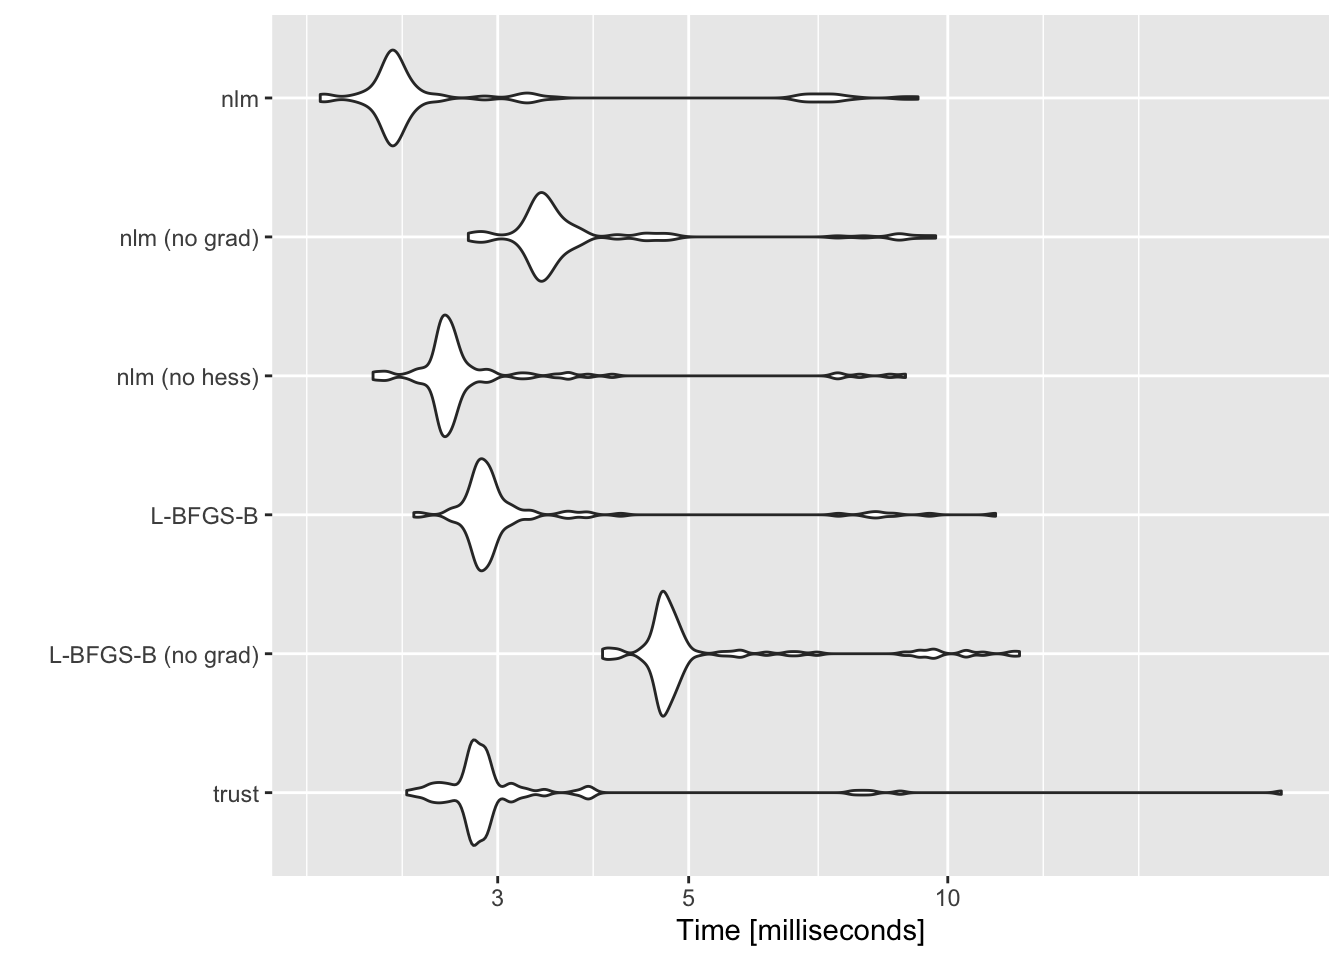
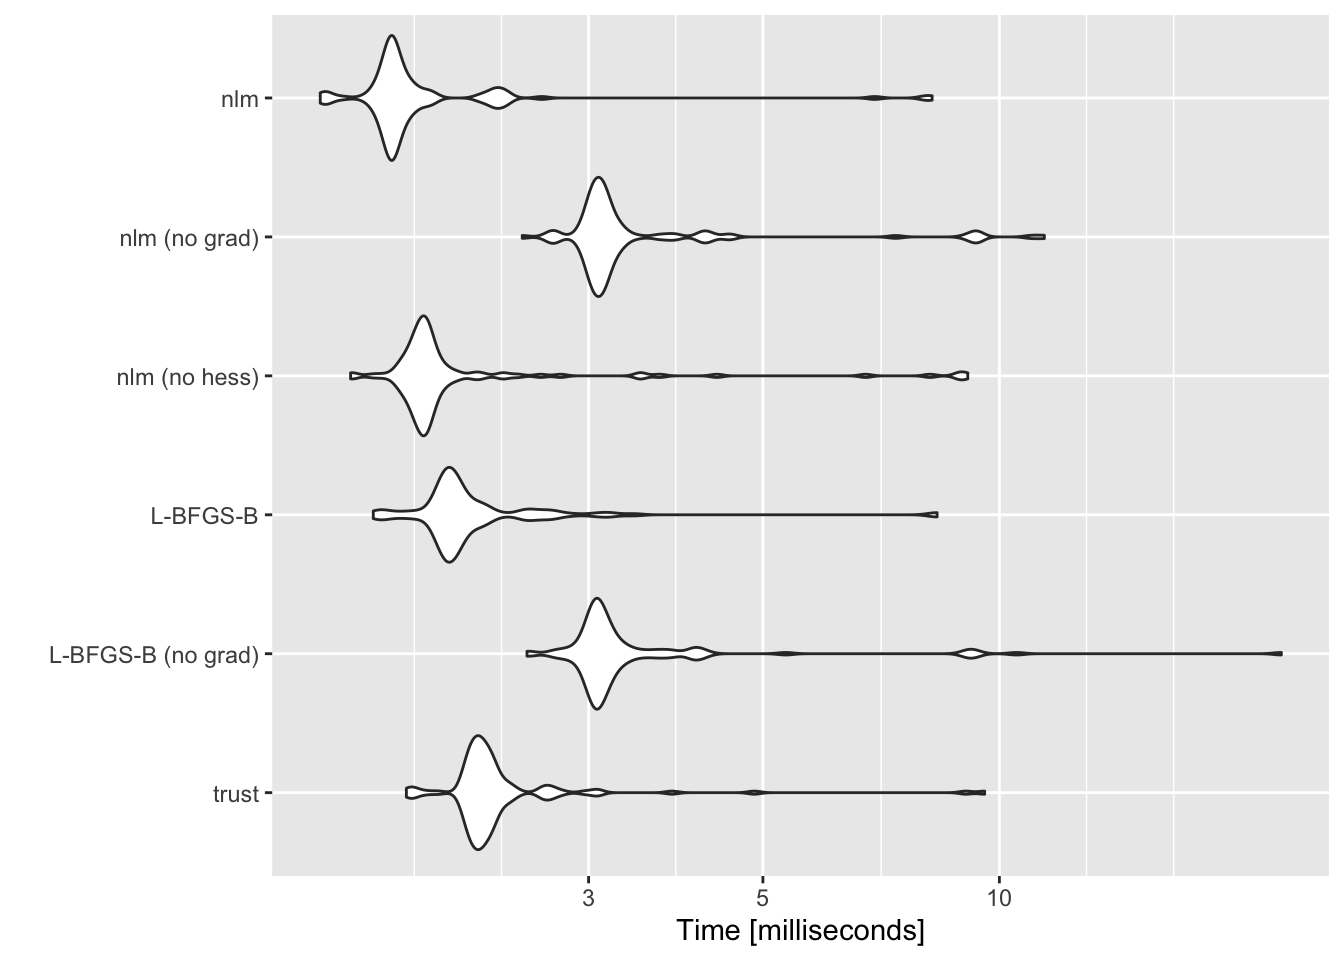
Build site.

diff --git a/docs/optmethods_pn.html b/docs/optmethods_pn.html
@@ -436,10 +436,10 @@ This reproducible <a href="http://rmarkdown.rstudio.com">R Markdown</a> analysis
 <div class="panel panel-default">
 <div class="panel-heading">
 <p class="panel-title">
-<a data-toggle="collapse" data-parent="#workflowr-checks" href="#strongRepositoryversionstrongahrefhttpsgithubcomwillwerscheidebnmpapertreed042f600ee18c71937ef6780dc3d538ed80726edtargetblankd042f60a"> <span class="glyphicon glyphicon-ok text-success" aria-hidden="true"></span> <strong>Repository version:</strong> <a href="https://github.com/willwerscheid/ebnm-paper/tree/d042f600ee18c71937ef6780dc3d538ed80726ed" target="_blank">d042f60</a> </a>
+<a data-toggle="collapse" data-parent="#workflowr-checks" href="#strongRepositoryversionstrongahrefhttpsgithubcomwillwerscheidebnmpapertree66b4d3bcb5d098cbc6bb446ccf398f45ed6dab64targetblank66b4d3ba"> <span class="glyphicon glyphicon-ok text-success" aria-hidden="true"></span> <strong>Repository version:</strong> <a href="https://github.com/willwerscheid/ebnm-paper/tree/66b4d3bcb5d098cbc6bb446ccf398f45ed6dab64" target="_blank">66b4d3b</a> </a>
 </p>
 </div>
[2 lines of base64/hex data omitted]
 <div class="panel-body">
 <p>
 Great! You are using Git for version control. Tracking code development and connecting the code version to the results is critical for reproducibility. The version displayed above was the version of the Git repository at the time these results were generated. <br><br> Note that you need to be careful to ensure that all relevant files for the analysis have been committed to Git prior to generating the results (you can use <code>wflow_publish</code> or <code>wflow_git_commit</code>). workflowr only checks the R Markdown file, but you know if there are other scripts or data files that it depends on. Below is the status of the Git repository when the results were generated:
@@ -448,7 +448,6 @@ Great! You are using Git for version control. Tracking code development and conn
 Ignored files:
     Ignored:    .Rhistory
     Ignored:    .Rproj.user/
-    Ignored:    docs/figure/
 
 Untracked files:
     Untracked:  analysis/optmethods_pn2.Rmd
@@ -491,6 +490,40 @@ Message
 </tr>
 </thead>
 <tbody>
+<tr>
+<td>
+Rmd
+</td>
+<td>
+<a href="https://github.com/willwerscheid/ebnm-paper/blob/66b4d3bcb5d098cbc6bb446ccf398f45ed6dab64/analysis/optmethods_pn.Rmd" target="_blank">66b4d3b</a>
+</td>
+<td>
+Jason Willwerscheid
+</td>
+<td>
+2021-01-11
+</td>
+<td>
+wflow_publish(“analysis/optmethods_pn.Rmd”)
+</td>
+</tr>
+<tr>
+<td>
+html
+</td>
+<td>
+<a href="https://rawcdn.githack.com/willwerscheid/ebnm-paper/165e16731c387bcf7aeae6628f20403c1b57d2ab/docs/optmethods_pn.html" target="_blank">165e167</a>
+</td>
+<td>
+Jason Willwerscheid
+</td>
+<td>
+2021-01-11
+</td>
+<td>
+Build site.
+</td>
+</tr>
 <tr>
 <td>
 Rmd
@@ -560,8 +593,8 @@ test_n &lt;- function(n, mb_times = 100L, seed = 666) {
   # true g is 0.8 delta_0 + 0.2 N(0, 2^2)
   theta &lt;- rnorm(n, sd = 2)
   theta[rbinom(n, size = 1, prob = 0.8) == 1] &lt;- 0
-  s &lt;- sqrt(rexp(2 * n))
-  x &lt;- theta + rnorm(2 * n, sd = s)
+  s &lt;- sqrt(rexp(n))
+  x &lt;- theta + rnorm(n, sd = s)
 
   test_res &lt;- microbenchmark(
     tres &lt;- ebnm_point_normal(x, s, optmethod = &quot;trust&quot;,
@@ -593,11 +626,48 @@ test_n &lt;- function(n, mb_times = 100L, seed = 666) {
 <pre class="r"><code>res1000 &lt;- test_n(1000)
 res1000$llik_res - max(res1000$llik_res)</code></pre>
 <pre><code>#&gt;         trust      L-BFGS-B           nlm 
-#&gt;  0.000000e+00 -4.994945e-09 -1.818989e-12</code></pre>
+#&gt; -9.094947e-13 -9.094947e-13  0.000000e+00</code></pre>
 <p>Timing results:</p>
 <pre class="r"><code>autoplot(res1000$mb_res)</code></pre>
 <pre><code>#&gt; Coordinate system already present. Adding new coordinate system, which will replace the existing one.</code></pre>
 <p><img src="figure/optmethods_pn.Rmd/n1000t-1.png" width="672" style="display: block; margin: auto;" /></p>
+<p>
+<button type="button" class="btn btn-default btn-xs btn-workflowr btn-workflowr-fig" data-toggle="collapse" data-target="#fig-n1000t-1">
+Past versions of n1000t-1.png
+</button>
+</p>
+<div id="fig-n1000t-1" class="collapse">
+<div class="table-responsive">
+<table class="table table-condensed table-hover">
+<thead>
+<tr>
+<th>
+Version
+</th>
+<th>
+Author
+</th>
+<th>
+Date
+</th>
+</tr>
+</thead>
+<tbody>
+<tr>
+<td>
+<a href="https://github.com/willwerscheid/ebnm-paper/blob/165e16731c387bcf7aeae6628f20403c1b57d2ab/docs/figure/optmethods_pn.Rmd/n1000t-1.png" target="_blank">165e167</a>
+</td>
+<td>
+Jason Willwerscheid
+</td>
+<td>
+2021-01-11
+</td>
+</tr>
+</tbody>
+</table>
+</div>
+</div>
 </div>
 <div id="n-10000" class="section level2">
 <h2>n = 10000</h2>
@@ -605,11 +675,48 @@ res1000$llik_res - max(res1000$llik_res)</code></pre>
 <pre class="r"><code>res10000 &lt;- test_n(10000)
 res10000$llik_res - max(res10000$llik_res)</code></pre>
 <pre><code>#&gt;         trust      L-BFGS-B           nlm 
-#&gt;  0.000000e+00  0.000000e+00 -2.910383e-11</code></pre>
+#&gt;  0.000000e+00 -1.164153e-10 -5.820766e-11</code></pre>
 <p>Timing results:</p>
 <pre class="r"><code>autoplot(res10000$mb_res)</code></pre>
 <pre><code>#&gt; Coordinate system already present. Adding new coordinate system, which will replace the existing one.</code></pre>
 <p><img src="figure/optmethods_pn.Rmd/n10000t-1.png" width="672" style="display: block; margin: auto;" /></p>
+<p>
+<button type="button" class="btn btn-default btn-xs btn-workflowr btn-workflowr-fig" data-toggle="collapse" data-target="#fig-n10000t-1">
+Past versions of n10000t-1.png
+</button>
+</p>
+<div id="fig-n10000t-1" class="collapse">
+<div class="table-responsive">
+<table class="table table-condensed table-hover">
+<thead>
+<tr>
+<th>
+Version
+</th>
+<th>
+Author
+</th>
+<th>
+Date
+</th>
+</tr>
+</thead>
+<tbody>
+<tr>
+<td>
+<a href="https://github.com/willwerscheid/ebnm-paper/blob/165e16731c387bcf7aeae6628f20403c1b57d2ab/docs/figure/optmethods_pn.Rmd/n10000t-1.png" target="_blank">165e167</a>
+</td>
+<td>
+Jason Willwerscheid
+</td>
+<td>
+2021-01-11
+</td>
+</tr>
+</tbody>
+</table>
+</div>
+</div>
 </div>
 <div id="n-100000" class="section level2">
 <h2>n = 100000</h2>
@@ -617,11 +724,49 @@ res10000$llik_res - max(res10000$llik_res)</code></pre>
 <pre class="r"><code>res100000 &lt;- test_n(100000)
 res100000$llik_res - max(res100000$llik_res)</code></pre>
 <pre><code>#&gt;         trust      L-BFGS-B           nlm 
-#&gt;  0.000000e+00 -2.328306e-10  0.000000e+00</code></pre>
+#&gt;  0.000000e+00 -5.820766e-11 -5.820766e-11</code></pre>
 <p>Timing results:</p>
 <pre class="r"><code>autoplot(res100000$mb_res)</code></pre>
 <pre><code>#&gt; Coordinate system already present. Adding new coordinate system, which will replace the existing one.</code></pre>
-<img src="figure/optmethods_pn.Rmd/n100000t-1.png" width="672" style="display: block; margin: auto;" /> <br> <br>
+<p><img src="figure/optmethods_pn.Rmd/n100000t-1.png" width="672" style="display: block; margin: auto;" /></p>
+<p>
+<button type="button" class="btn btn-default btn-xs btn-workflowr btn-workflowr-fig" data-toggle="collapse" data-target="#fig-n100000t-1">
+Past versions of n100000t-1.png
+</button>
+</p>
+<div id="fig-n100000t-1" class="collapse">
+<div class="table-responsive">
+<table class="table table-condensed table-hover">
+<thead>
+<tr>
+<th>
+Version
+</th>
+<th>
+Author
+</th>
+<th>
+Date
+</th>
+</tr>
+</thead>
+<tbody>
+<tr>
+<td>
+<a href="https://github.com/willwerscheid/ebnm-paper/blob/165e16731c387bcf7aeae6628f20403c1b57d2ab/docs/figure/optmethods_pn.Rmd/n100000t-1.png" target="_blank">165e167</a>
+</td>
+<td>
+Jason Willwerscheid
+</td>
+<td>
+2021-01-11
+</td>
+</tr>
+</tbody>
+</table>
+</div>
+</div>
+<br> <br>
 <p>
 <button type="button" class="btn btn-default btn-workflowr btn-workflowr-sessioninfo" data-toggle="collapse" data-target="#workflowr-sessioninfo" style="display: block;">
 <span class="glyphicon glyphicon-wrench" aria-hidden="true"></span> Session information
